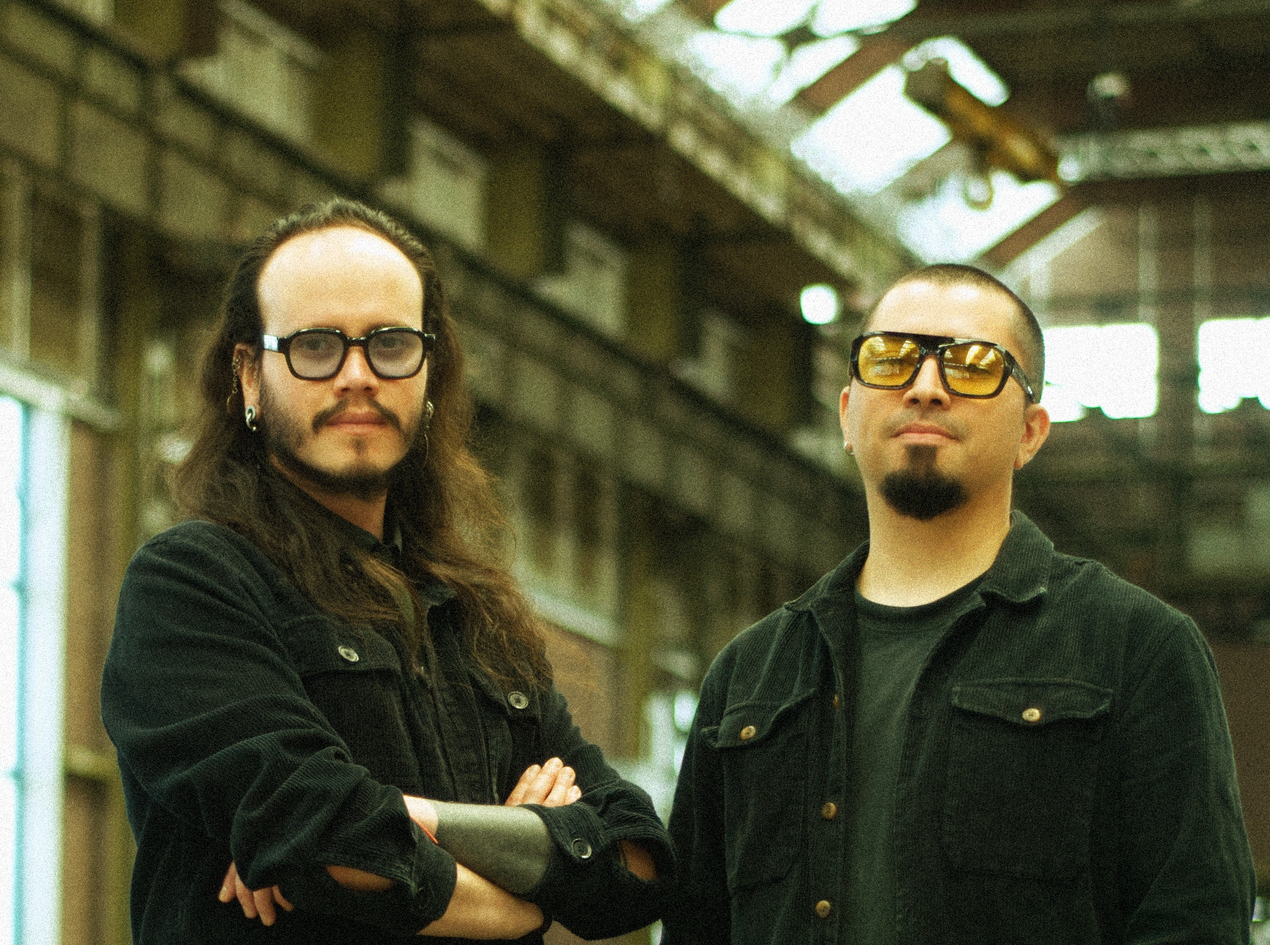
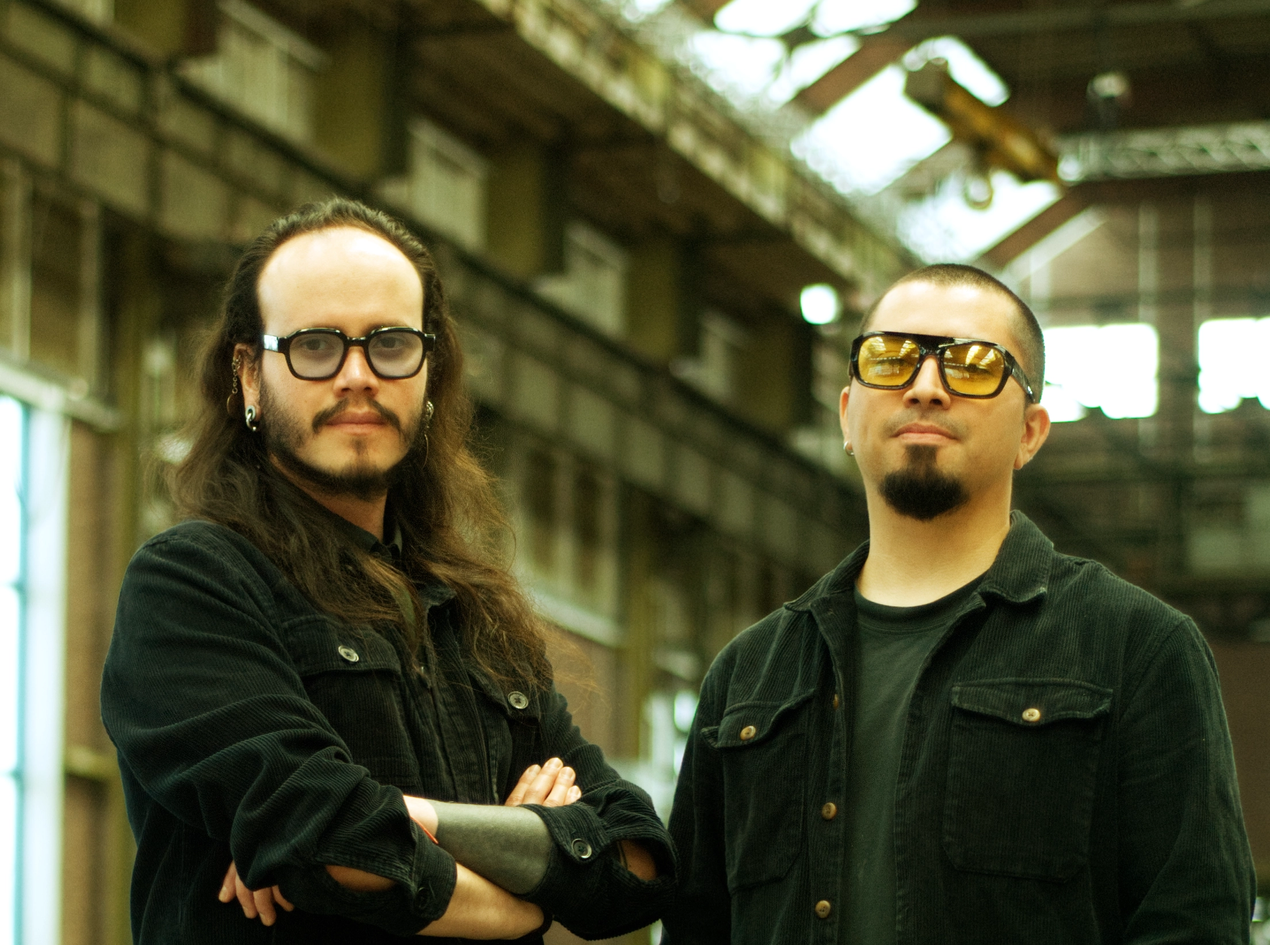
Preserve full biography photo width and add centered Contact portrait

diff --git a/style.css b/style.css
@@ -122,8 +122,8 @@ h1, h2, h3 { font-family: var(--display); font-weight: 500; }
 }
 
 .biography { background: #11170f; color: var(--white); height: 100svh; min-height: 0; overflow: clip; padding: clamp(18px, 4svh, 48px) 8vw clamp(18px, 4svh, 48px) 6vw; display: flex; align-items: flex-end; }
-/* A small zoom fills the frame; the upper crop keeps both faces above the copy. */
-.biography__portrait img { object-position: 50% calc(6svh - max(16vw, 24svh)); transform: scale(1.08); }
+/* Preserve the complete horizontal frame; only the vertical crop moves the faces. */
+.biography .biography__portrait img { position: absolute; left: 0; top: calc(5svh - 16vw); width: 100%; height: auto; max-width: none; object-fit: contain; object-position: center top; transform: none; mask-image: linear-gradient(to bottom, #000 85%, transparent); }
 .biography::after { content: ''; position: absolute; inset: 0; background: linear-gradient(to bottom, transparent 30%, #090e0844 45%, #090e08c7 68%, #090e08f5 100%); pointer-events: none; }
 .biography__copy { --bio-columns: 3; --bio-gap: 3.5vw; position: relative; z-index: 1; width: 100%; min-width: 0; container-type: inline-size; column-count: var(--bio-columns); column-gap: var(--bio-gap); column-fill: balance; font: 400 round(down, clamp(16px, 1.9svh, 20px), 1px)/1.42 'Anderson Grotesk', Arial, sans-serif; font-variation-settings: normal; text-align: justify; text-align-last: left; text-justify: inter-word; orphans: 1; widows: 1; text-shadow: 0 1px 10px #0009; }
 .biography__copy h2 { font-size: calc((100cqw - (var(--bio-columns) - 1) * var(--bio-gap)) / var(--bio-columns) * .187); line-height: .9; letter-spacing: 0; margin: 0 0 14px; break-inside: avoid; }
@@ -207,37 +207,42 @@ h1, h2, h3 { font-family: var(--display); font-weight: 500; }
 .events-empty a { font-size: 17px; display: inline-block; border-bottom: 1px solid; margin-top: 20px; }
 
 /* Email first; channels grouped by purpose, with Bandcamp last. */
-.contact { background: var(--red); padding: 100px 11vw 90px 8vw; display: grid; grid-template-columns: minmax(0, 1fr) minmax(0, 1.1fr); align-content: center; align-items: end; gap: 0 7vw; }
+.contact { --red: #d80108; isolation: isolate; background: var(--red); padding: 100px 11vw 90px 8vw; display: grid; grid-template-columns: minmax(0, .9fr) minmax(0, 1fr); align-content: center; align-items: end; gap: 0 14vw; font: 400 16px/1.45 'Anderson Grotesk', Arial, sans-serif; font-variation-settings: normal; }
+.contact__portrait { position: absolute; z-index: 0; left: 50%; top: 50%; width: min(70vw, calc(100svh * 3014 / 4516)); aspect-ratio: 3014 / 4516; transform: translate(-50%, -50%); pointer-events: none; }
+.contact__portrait img { width: 100%; height: 100%; object-fit: contain; mask-image: linear-gradient(to right, transparent, #000 5%, #000 95%, transparent), linear-gradient(to bottom, transparent, #000 6%, #000 94%, transparent); mask-composite: intersect; }
+.contact__lead, .contact__channels, .contact__back { position: relative; z-index: 1; }
+.contact .eyebrow { font-size: 11px; letter-spacing: .14em; }
 .contact__lead, .contact__channels { min-width: 0; }
 .contact__channels { container-type: inline-size; }
-.contact__lead .display { font-size: min(140px, 27cqw); margin: 0 0 clamp(40px, 7svh, 72px); }
-.contact__lead .eyebrow { font-size: 12px; opacity: .75; margin-bottom: 16px; }
+.contact__lead .display { font-size: min(118px, 24cqw); margin: 0 0 clamp(32px, 5svh, 54px); }
+.contact__lead .eyebrow { opacity: .85; margin-bottom: 12px; }
 /* Links fill with paper and turn red on hover, focus and tap; the arrow circle fills and turns to point forward. */
 .contact__email, .contact__row { --pad: 18px; position: relative; isolation: isolate; margin: 0 calc(-1 * var(--pad)); transition: color .3s; }
 .contact__email::before, .contact__row::before, .event::before { content: ''; position: absolute; inset: 0; z-index: -1; background: var(--paper); transform: scaleX(0); transform-origin: left; transition: transform .5s cubic-bezier(.65, 0, .35, 1); }
-.contact__email { --pad: 14px; display: inline-flex; align-items: center; gap: .45em; max-width: calc(100% + 2 * var(--pad)); padding: 6px var(--pad) 14px; font: 500 min(54px, 8cqw)/1.1 var(--display); letter-spacing: -.025em; }
+.contact__email { --pad: 14px; display: inline-flex; align-items: center; gap: .45em; max-width: calc(100% + 2 * var(--pad)); padding: 6px var(--pad) 14px; font: 500 min(44px, 7cqw)/1.1 var(--display); letter-spacing: -.025em; }
 .contact__email::after { content: ''; position: absolute; left: var(--pad); right: var(--pad); bottom: 0; height: 1px; background: #fff8; transition: opacity .3s; }
 .contact__name { transition: transform .5s cubic-bezier(.65, 0, .35, 1); }
 .contact__icon, .event__icon { display: grid; place-items: center; flex-shrink: 0; width: 38px; height: 38px; border: 1px solid #fff8; border-radius: 50%; transition: background-color .3s, border-color .3s, color .3s; }
 .contact__icon .arrow, .event__icon .arrow { width: 14px; height: 14px; transition: transform .5s cubic-bezier(.65, 0, .35, 1); }
+.contact__icon { width: 32px; height: 32px; }
 .contact__email .contact__icon { width: .8em; height: .8em; }
 .contact__email .contact__icon .arrow { width: .3em; height: .3em; }
 .contact__email:focus-visible, .contact__row:focus-visible { outline: 2px solid var(--white); outline-offset: 3px; }
-.contact__meta { display: flex; flex-wrap: wrap; align-items: baseline; gap: 8px 26px; margin-top: 18px; font-size: 14px; }
+.contact__meta { display: flex; flex-wrap: wrap; align-items: baseline; gap: 6px 20px; margin-top: 14px; font-size: 13px; }
 .contact__meta p { opacity: .8; }
 .contact__copy { position: relative; padding: 6px 0; opacity: .8; transition: opacity .2s; }
 .contact__copy::after { content: ''; position: absolute; left: 0; right: 0; bottom: 3px; height: 1px; background: currentColor; transform: scaleX(.35); transform-origin: left; transition: transform .25s; }
 .contact__copy:hover, .contact__copy:focus-visible { opacity: 1; }
 .contact__copy:hover::after, .contact__copy:focus-visible::after { transform: scaleX(1); }
-.contact__copy-status { font-size: 13px; opacity: .8; }
-.contact__group { display: grid; grid-template-columns: 136px minmax(0, 1fr); gap: 0 20px; align-items: first baseline; border-top: 1px solid #fff6; }
+.contact__copy-status { font-size: 12px; opacity: .8; }
+.contact__group { display: grid; grid-template-columns: 112px minmax(0, 1fr); gap: 0 16px; align-items: first baseline; border-top: 1px solid #fff6; }
 .contact__group:last-of-type { border-bottom: 1px solid #fff6; }
-.contact__group h3 { font-family: var(--body); font-weight: 400; font-size: 12px; opacity: .75; }
+.contact__group h3 { font-family: inherit; font-weight: 400; font-size: 11px; opacity: .85; }
 .contact__group ul { list-style: none; margin: 0; padding: 0; }
 .contact__group li + li { border-top: 1px solid #fff2; }
-.contact__row { display: grid; grid-template-columns: minmax(0, 1fr) auto auto; align-items: center; gap: 18px; padding: 14px var(--pad); }
-.contact__name { font: 500 clamp(26px, 2.4vw, 38px)/1.1 var(--display); letter-spacing: -.02em; }
-.contact__detail { font-size: 14px; white-space: nowrap; opacity: .8; transition: opacity .3s; }
+.contact__row { display: grid; grid-template-columns: minmax(0, 1fr) auto auto; align-items: center; gap: 12px; padding: 12px var(--pad); }
+.contact__name { font: 500 clamp(22px, 2vw, 32px)/1.1 var(--display); letter-spacing: -.02em; }
+.contact__detail { font-size: 12px; white-space: nowrap; opacity: .8; transition: opacity .3s; }
 .contact__email:is(:focus-visible, :active), .contact__row:is(:focus-visible, :active) { color: var(--red); }
 .contact__email:is(:focus-visible, :active)::before, .contact__row:is(:focus-visible, :active)::before { transform: none; }
 .contact__email:is(:focus-visible, :active)::after { opacity: 0; }
@@ -254,9 +259,9 @@ h1, h2, h3 { font-family: var(--display); font-weight: 500; }
   .contact__email:hover .contact__icon, .contact__row:hover .contact__icon { background: var(--red); border-color: var(--red); color: var(--white); }
   .contact__email:hover .arrow, .contact__row:hover .arrow { transform: rotate(45deg); }
 }
-.contact__back { grid-column: 2; justify-self: start; display: inline-flex; align-items: baseline; gap: 10px; font-size: 14px; margin-top: 36px; padding: 6px 0; opacity: .7; transition: opacity .2s; }
+.contact__back { grid-column: 2; justify-self: start; display: inline-flex; align-items: baseline; gap: 10px; font-size: 13px; margin-top: 28px; padding: 6px 0; opacity: .7; transition: opacity .2s; }
 .contact__back:hover, .contact__back:focus-visible { opacity: 1; }
-.contact__back span { font-size: 18px; }
+.contact__back span { font-size: 16px; }
 /* Narrow channel columns place each label above its links. */
 @container (max-width: 519px) {
   .contact__group { grid-template-columns: minmax(0, 1fr); padding-top: 18px; }
@@ -298,10 +303,6 @@ dialog::backdrop { background: #0b0c0bf0; }
   .live { grid-template-columns: 1fr; grid-template-rows: auto minmax(0, 1fr); gap: 28px; }
   .live__intro { margin-top: 0; }
   .live::after { background: linear-gradient(to bottom, #05050566, #050505d9 34%, #050505eb); }
-  .contact { grid-template-columns: 1fr; gap: 70px; }
-  .contact__back { grid-column: auto; margin-top: -34px; }
-  .contact__lead .display { margin-bottom: 40px; }
-  .contact__email { font-size: min(54px, 7.5cqw); }
 }
 /* Landscape tablets and small laptops: compact type keeps each aleas screen within the window. */
 @media (min-width: 721px) and (max-width: 1050px) and (max-height: 860px) {
@@ -312,6 +313,21 @@ dialog::backdrop { background: #0b0c0bf0; }
   .release__actions { gap: 8px; }
   .release__facts dd { font-size: 17px; }
   .release__about p { font-size: 15px; line-height: 1.5; }
+}
+@media (max-width: 800px) {
+  .contact { grid-template-columns: 1fr; gap: 36px; padding: 72px 52px 52px 24px; }
+  .contact__portrait { width: min(100%, 620px); }
+  .contact__channels { max-width: 560px; }
+  .contact__lead .display { font-size: min(92px, 22cqw); margin: 0 0 28px; }
+  .contact__email { font-size: min(36px, 7.2cqw); padding-bottom: 12px; }
+  .contact__meta { font-size: 12px; gap: 4px 18px; }
+  .contact__email, .contact__row { --pad: 12px; }
+  .contact__row { grid-template-columns: minmax(0, 1fr) auto; grid-template-areas: 'name icon' 'detail icon'; gap: 3px 14px; padding: 10px var(--pad) 12px; }
+  .contact__name { grid-area: name; font-size: 23px; }
+  .contact__detail { grid-area: detail; }
+  .contact__icon { grid-area: icon; width: 30px; height: 30px; }
+  .contact__email .contact__icon { width: .8em; height: .8em; }
+  .contact__back { grid-column: auto; margin-top: -16px; }
 }
 @media (max-width: 720px) {
   html { scroll-snap-type: none; }
@@ -346,7 +362,6 @@ dialog::backdrop { background: #0b0c0bf0; }
   .text-link { font-size: 17px; gap: 20px; }
   .biography { min-height: 0; padding: 20px 46px 20px 24px; }
   .biography .biography__portrait { height: min(46svh, 94vw); }
-  .biography__portrait img { object-position: 50% calc(18px - min(11svh, 22.5vw)); transform: scale(1.06); }
   .biography::after { background: linear-gradient(to bottom, transparent 8svh, #11170f44 20svh, #11170ff5 min(36svh, 76vw), #11170f min(40svh, 80vw)); }
   .biography__copy h2 { margin: 0 0 12px; }
   .biography__copy { font-size: clamp(15px, 1.9svh, 17px); line-height: 1.38; }
@@ -372,19 +387,6 @@ dialog::backdrop { background: #0b0c0bf0; }
   .event time { font-size: 20px; }
   .event p { font-size: 14px; }
   .event__info > span { font-size: 11px; }
-  .contact { gap: 46px; padding: 90px 60px 65px 24px; }
-  .contact__lead .display { font-size: min(90px, 23cqw); margin: 25px 0 30px; }
-  .contact__email { font-size: min(40px, 8cqw); padding-bottom: 12px; }
-  .contact__meta { font-size: 13px; gap: 4px 22px; }
-  .contact__email, .contact__row { --pad: 12px; }
-  .contact__row { grid-template-columns: minmax(0, 1fr) auto; grid-template-areas: 'name icon' 'detail icon'; gap: 4px 16px; padding: 10px var(--pad) 14px; }
-  .contact__name { grid-area: name; }
-  .contact__detail { grid-area: detail; }
-  .contact__icon { grid-area: icon; width: 36px; height: 36px; }
-  .contact__email .contact__icon { width: 30px; height: 30px; }
-  .contact__email .contact__icon .arrow { width: 12px; height: 12px; }
-  .contact__name { font-size: 26px; }
-  .contact__back { margin-top: -22px; }
   .eyebrow { font-size: 11px; }
   dialog { max-width: calc(100vw - 24px); max-height: 94svh; }
   .lightbox { padding: 65px 15px 20px; width: calc(100vw - 24px); }
@@ -405,9 +407,9 @@ dialog::backdrop { background: #0b0c0bf0; }
   .video-card__title { font-size: 20px; margin-top: 12px; }
   .release__facts { margin-top: 30px; }
   .release__facts > div { padding: 11px 0 12px; }
-  .contact__lead .display { font-size: 80px; margin-bottom: 32px; }
+  .contact__lead .display { font-size: min(74px, 23cqw); margin-bottom: 24px; }
   .contact__row { padding: 10px var(--pad); }
-  .contact__name { font-size: 28px; }
+  .contact__name { font-size: 24px; }
   .live__intro { margin-top: -16px; }
   .live__intro h2 { font-size: 140px; }
 }
@@ -425,7 +427,6 @@ dialog::backdrop { background: #0b0c0bf0; }
 
 @media (min-width: 721px) and (max-aspect-ratio: 1 / 1) {
   .biography .biography__portrait { height: 65svh; }
-  .biography__portrait img { object-position: 50% calc(4svh - max(18vw, 15.6svh)); }
   .biography::after { background: linear-gradient(to bottom, transparent 20svh, #11170f44 35svh, #11170ff5 53svh, #11170f 57svh); }
 }
 
@@ -439,7 +440,6 @@ dialog::backdrop { background: #0b0c0bf0; }
 @media (min-width: 541px) and (max-height: 500px) {
   .biography { padding: 14px 44px 14px 24px; }
   .biography .biography__portrait { height: 100%; }
-  .biography__portrait img { object-position: 50% calc(6svh - max(16vw, 24svh)); transform: scale(1.04); }
   .biography::after { background: linear-gradient(to bottom, transparent 24%, #090e0877 45%, #090e08e6 75%, #090e08f5 100%); }
   .biography__copy h2 { font-size: clamp(30px, 5vw, 42px); margin-bottom: 8px; }
   .biography__copy { --bio-columns: 1; display: flex; flex-direction: column; max-height: 44%; }

diff --git a/index.html b/index.html
@@ -14,7 +14,7 @@
   <link rel="icon" href="assets/favicon.svg?v=20261023-dv" type="image/svg+xml">
   <link rel="preload" href="assets/fonts/apfel-grotezk-mittel.woff2" as="font" type="font/woff2" crossorigin>
   <link rel="preload" href="assets/fonts/aujournuit-variable.ttf" as="font" type="font/ttf" crossorigin>
-  <link rel="stylesheet" href="style.css?v=20261101-biography-approved">
+  <link rel="stylesheet" href="style.css?v=20261101-contact-portrait">
   <script src="app.js?v=20261101-biography-approved" defer></script>
 </head>
 <body>
@@ -88,8 +88,8 @@
 
     <section class="scene biography" id="bio" aria-labelledby="bio-title">
       <picture class="biography__portrait scene-photo">
-        <source media="(max-width: 720px)" srcset="assets/images/biography-small.webp?v=20261101-dsc0278">
-        <img src="assets/images/biography.webp?v=20261101-dsc0278" alt="Jorge Care and César Vidal standing inside an industrial building." width="2208" height="1643" loading="lazy">
+        <source media="(max-width: 720px)" srcset="assets/images/biography-small.webp?v=20261101-biography-full-width">
+        <img src="assets/images/biography.webp?v=20261101-biography-full-width" alt="Jorge Care and César Vidal standing inside an industrial building." width="2208" height="1643" loading="lazy">
       </picture>
       <article class="biography__copy">
         <h2 class="display" id="bio-title" aria-label="BIOGRAPHY"><span class="biography__title" aria-hidden="true"><span>B</span><span>I</span><span>O</span><span>G</span><span>R</span><span>A</span><span>P</span><span>H</span><span>Y</span></span></h2>
@@ -149,6 +149,10 @@
     </section>
 
     <section class="scene contact" id="contact" aria-labelledby="contact-title">
+      <picture class="contact__portrait">
+        <source media="(max-width: 720px)" srcset="assets/images/contact-small.webp?v=20261101-red-portrait">
+        <img src="assets/images/contact.webp?v=20261101-red-portrait" alt="Jorge Care and César Vidal in motion against a red background." width="3014" height="4516" loading="lazy">
+      </picture>
       <div class="contact__lead">
         <h2 class="display" id="contact-title">Contact</h2>
         <p class="eyebrow">Bookings & enquiries</p>

diff --git a/README.md b/README.md
@@ -8,18 +8,18 @@ A single page in six sections: home, aleas / discography, biography, gallery, li
 python3 -m http.server 8000
 ```
 
-Open `http://localhost:8000/`. Titles use **Apfel Grotezk Mittel (weight 500)** by Luigi Gorlero; body text uses **Aujournuit Variable** by Teo Gaudet, initially at regular width 100, except for the biography's **Anderson Grotesk Regular (400)** by Stephen French. Apfel and Aujournuit are supplied by the owner from [Collletttivo](https://www.collletttivo.it/typefaces/) and self-hosted with their SIL Open Font Licenses in `assets/fonts/`. Anderson uses its real Oblique for emphasis; its source and the designer's personal/commercial use permission are recorded in [the font notes](assets/fonts/candidates/README.md). The other comparison fonts remain inactive.
+Open `http://localhost:8000/`. Titles use **Apfel Grotezk Mittel (weight 500)** by Luigi Gorlero; body text uses **Aujournuit Variable** by Teo Gaudet, initially at regular width 100, except for biography body copy and Contact secondary text in **Anderson Grotesk Regular (400)** by Stephen French. Apfel and Aujournuit are supplied by the owner from [Collletttivo](https://www.collletttivo.it/typefaces/) and self-hosted with their SIL Open Font Licenses in `assets/fonts/`. Anderson uses its real Oblique for emphasis; its source and the designer's personal/commercial use permission are recorded in [the font notes](assets/fonts/candidates/README.md). The other comparison fonts remain inactive.
 
 Apfel is served as WOFF2, with its original OTF also included. Aujournuit is served from the original variable TTF: the supplied `Aujournuit-VariableVF.woff2` actually renders at a fixed width, whereas the TTF preserves the `wdth` axis (50–200). Keep using the TTF unless a replacement is verified to change width in the browser. The earlier Rebak personal-use demo remains ignored by Git and is never requested by the public site.
 
 ## Editing the site
 
 - **Sections:** the six `.section-nav` links and six `main > section` elements in `index.html` correspond one to one. The hero menu links to the same sections. The right-side marks track normal page scrolling. Inactive marks are rounded 18 × 3 px lines; the current section becomes an 18 × 9 px rounded rectangle. Mobile uses 15 × 3 px / 15 × 8 px. Both use 24 px row spacing and translucent marks, with stronger opacity on hover / keyboard focus; link targets remain wider than the marks.
-- **Photos:** put optimized WebP files in `assets/images/`, then update `<img>` paths, dimensions, alt text, and entries in the `#gallery-data` JSON block. Biography uses the higher-quality landscape `biography.webp` and stays exactly one screen tall (100svh); do not restore fixed pixel or viewport-width-based minimum heights. A small CSS zoom frames both faces, with white copy over a lower gradient. The photograph already has its own texture; no grain or noise is added. The full-size WebP is served unchanged. BIOGRAPHY is part of the first column, with its letters distributed across that column's width and a small optical shift aligning its B and cap height with the body text. The body uses Anderson Regular with slightly tighter leading, justified paragraphs and left-aligned final lines. Desktop normally has three columns and tablet two. The original five paragraphs remain intact in the HTML. `app.js` typesets their words into equal-height columns, including the heading in column one, while preserving paragraph boundaries and fixed 8px paragraph gaps. Sentences may continue in the next column. It measures candidate layouts in the browser and makes small font-size and heading-spacing adjustments; it never distributes spare height between paragraphs. The native column flow remains a readable fallback, and single-column reading areas keep the original paragraphs with small fixed spacing. On narrow phones and very short windows, the text alone scrolls inside a labelled, keyboard-accessible reading area; the photograph, title and section height remain fixed. The original earlier portrait stays available in the photo gallery. Keep visible copy limited to section titles, functional labels and the biography based on the owner’s supplied text; do not add slogans.
+- **Photos:** put optimized WebP files in `assets/images/`, then update `<img>` paths, dimensions, alt text, and entries in the `#gallery-data` JSON block. Biography uses the higher-quality landscape `biography.webp` and stays exactly one screen tall (100svh); do not restore fixed pixel or viewport-width-based minimum heights. The image fits the full viewport width with automatic height and no zoom, so neither lateral edge is lost; its vertical position keeps both faces visible. A bottom fade blends it into the dark background, with white copy over a lower gradient. The photograph already has its own texture; no grain or noise is added. The full-size WebP is served unchanged. BIOGRAPHY is part of the first column, with its letters distributed across that column's width and a small optical shift aligning its B and cap height with the body text. The body uses Anderson Regular with slightly tighter leading, justified paragraphs and left-aligned final lines. Desktop normally has three columns and tablet two. The original five paragraphs remain intact in the HTML. `app.js` typesets their words into equal-height columns, including the heading in column one, while preserving paragraph boundaries and fixed 8px paragraph gaps. Sentences may continue in the next column. It measures candidate layouts in the browser and makes small font-size and heading-spacing adjustments; it never distributes spare height between paragraphs. The native column flow remains a readable fallback, and single-column reading areas keep the original paragraphs with small fixed spacing. On narrow phones and very short windows, the text alone scrolls inside a labelled, keyboard-accessible reading area; the photograph, title and section height remain fixed. The original earlier portrait stays available in the photo gallery. Keep visible copy limited to section titles, functional labels and the biography based on the owner’s supplied text; do not add slogans.
 - **Films:** the Gallery cover has a single photo background; Photos opens the collection in a lightbox and Videos opens `#video-dialog`. Add videos to that dialog. Native controls, posters and `preload="none"` keep playback intentional and initial loading light.
 - **Discography:** aleas spans exactly two screens on tablets and computers, each with its own scroll-snap point and sizes that follow the window height (checked at 1024 × 768, 1280 × 680 / 800, 1440 × 900, 1920 × 1080 and 900 × 1100). As the second screen rises, `app.js` sets `--mix` from 0 to 1, moving the background from #10120f to the deep teal #0b2322, with a lower glow towards #1d4643 that meets the top of the Biography photograph. Phones keep one continuous flow. The first screen holds the title, a one-line description, the Listen (Bandcamp player dialog), Videos (YouTube playlist) and Bandcamp buttons, the credits list and the cover. The second screen holds About (the owner's text in three columns), Video documentation (three cards for *alea II*, *alea III* and *alea V* that play in `#youtube-dialog`, loading the privacy-enhanced YouTube player only on request and removing it on close) and, beside them, a Discography card for the debut EP. The music dialog loads the existing Bandcamp album IDs only when requested and includes a direct Bandcamp fallback link. Buttons, cards and the EP row share Contact's paper fill and red circle on hover / focus.
 - **Concerts:** each year is a `.events-year` group (an `<h3>` year plus an optional note) inside `.events-list`. Add an `.event` article to the matching group, newest first, with `data-date="YYYY-MM-DD"` and a matching `<time datetime>`; create a new group for a new year. The whole row links to the event page through `.event__link`; `.event__kind` names where it goes (Venue, Event page, Instagram) and an optional `.event__recording` pill links a video. Rows share Contact's hover fill and arrow circle. JavaScript separates upcoming and archived dates against Europe/Amsterdam time and orders them with CSS `order` (upcoming forward, archive backward), hiding empty years. A known month or year can use `YYYY-MM` or `YYYY`; do not invent missing date components. Only publish confirmed events and actual ticket / venue links. On desktop and tablet the Live section is exactly one screen tall and the list scrolls inside it, fading at the edges while more dates remain; on phones the list flows with the page under a photo band cropped on the piano. The Live title sits in the dark area above the piano.
-- **Contacts:** the duo's email (`desvisages1@gmail.com`) leads the section, with César Vidal named as the person handling bookings; a Copy address button appears when the browser supports copying. Links are grouped in this order: Follow (Instagram `@desvisages`), Websites (Jorge Care, César Vidal) and Listen & watch (YouTube `@desvisages`, then Bandcamp last). All handles and addresses were supplied by the owner; do not guess new ones. Group labels sit beside their links on wide layouts and above them when the column is narrow. Every contact link has an outlined arrow circle; on hover, keyboard focus or tap the link fills with paper colour, its text turns red and the arrow turns to point forward.
+- **Contacts:** the owner's red portrait is centered behind the information, with a local `#d80108` background matching the most common outer-edge RGB value (216, 1, 8) and subtle edge blending. The hero keeps its own `#b9070a`. Slightly smaller typography and wider space between the desktop information blocks leave more of the portrait visible. Titles, email and link names retain Apfel Mittel; secondary labels, handles, URLs, metadata, copying controls and the return link use Anderson Regular. The duo's email (`desvisages1@gmail.com`) leads the section, with César Vidal named as the person handling bookings; a Copy address button appears when the browser supports copying. Links are grouped in this order: Follow (Instagram `@desvisages`), Websites (Jorge Care, César Vidal) and Listen & watch (YouTube `@desvisages`, then Bandcamp last). All handles and addresses were supplied by the owner; do not guess new ones. Group labels sit beside their links on wide layouts and above them when the column is narrow. Every contact link has an outlined arrow circle; on hover, keyboard focus or tap the link fills with paper colour, its text turns red and the arrow turns to point forward.
 - **Design:** colour and typography variables are at the start of `style.css`. The favicon `assets/favicon.svg` is the duo's DV monogram, white on #b9070a; bump its `?v=` query in `index.html` when it changes, since browsers cache icons. Mobile flows remain scrollable, and reduced-motion preferences disable smooth scrolling / animations.
 
 ## Source material and limits of the first version
@@ -28,7 +28,7 @@ The aleas texts, credits, recording date and venue, piece titles and video IDs c
 
 Release details, album IDs, contacts, the debut EP artwork and the audiovisual excerpt were recovered from `cesarvidalmusic/cesarvidalmusic`, specifically `des-visages.html`, `aleas.html`, `des-visages-ep.html`, `contact.html`, `img/` and `videos/`. Nothing in that repository was edited.
 
-The latest biography upload, `DSC_0278.1.webp.zip`, supplies the landscape `biography.webp`: its 2208 × 1643 px WebP is copied unchanged (2,511,222 bytes), with a 1400 × 1042 px mobile version encoded at quality 98 (766,784 bytes). The supplied photograph's texture is preserved; the previous SVG grain overlay was removed. Its crop keeps both faces above the text. The expanded biography was approved by the owner on 1 November 2026: the debut EP was recorded at HEM in Geneva, features three original pieces and was recorded, mixed and mastered by Samuel Albert; it was released in 2025 and also presented at Geneva's Fête de la Musique. The final paragraph identifies aleas as recorded at Dijktheater in Amsterdam in 2026 and ends with that year's European tour. Earlier supplied archives provide `bio.webp` for the gallery portrait, `sección-fotos.jpg` for the single Gallery background, `eventos.png` for concerts, and `cover-aleas.png` for the album artwork. Original images were converted to sRGB when needed. The latest hero upload, `1 (todos bordes color sólido).webp`, replaces the earlier transparent cutout. Its 2500 × 2831 px WebP is copied unchanged, with a 1100 × 1246 px mobile version encoded at quality 94. The page background is `#b9070a`, the most common RGB value along its outer edges; subtle CSS masks blend small compression differences at the photograph's top and sides. The larger portrait is framed below the uppercase title to keep faces clear. Source archives remain outside Git; only the web assets are committed.
+The latest biography upload, `DSC_0278.1.webp.zip`, supplies the landscape `biography.webp`: its 2208 × 1643 px WebP is copied unchanged from the latest upload (1,260,856 bytes), with a 1400 × 1042 px mobile version encoded at quality 98 (478,836 bytes). The supplied photograph's texture is preserved; the previous SVG grain overlay was removed. Its full width remains visible; only the vertical framing is adjusted to keep both faces above the text. The expanded biography was approved by the owner on 1 November 2026: the debut EP was recorded at HEM in Geneva, features three original pieces and was recorded, mixed and mastered by Samuel Albert; it was released in 2025 and also presented at Geneva's Fête de la Musique. The final paragraph identifies aleas as recorded at Dijktheater in Amsterdam in 2026 and ends with that year's European tour. Earlier supplied archives provide `bio.webp` for the gallery portrait, `sección-fotos.jpg` for the single Gallery background, `eventos.png` for concerts, and `cover-aleas.png` for the album artwork. Original images were converted to sRGB when needed. The latest hero upload, `1 (todos bordes color sólido).webp`, replaces the earlier transparent cutout. Its 2500 × 2831 px WebP is copied unchanged, with a 1100 × 1246 px mobile version encoded at quality 94. The page background is `#b9070a`, the most common RGB value along its outer edges; subtle CSS masks blend small compression differences at the photograph's top and sides. The larger portrait is framed below the uppercase title to keep faces clear. The Contact portrait comes from the owner's `IMG_4852.1` light-version upload: the original 3014 × 4516 px WebP is copied unchanged as `contact.webp` (2,434,388 bytes), with a 1200 × 1798 px mobile WebP at quality 96 (130,282 bytes). Source archives remain outside Git; only the web assets are committed.
 
 The red portrait was originally credited to Beatriz Álvarez on the personal site. Per the owner's explicit correction, no photographer credit appears in the site or gallery dialogs; source attribution stays here. The bio is edited from the complete text the owner supplied, retaining the instrumental setup, visual work, influences and release history. The aleas video is a 19.8-second excerpt, encoded for the web at 1280 px. It plays in a dialog without automatic audio.
 

diff --git a/AGENTS.md b/AGENTS.md
@@ -4,12 +4,13 @@
 - Use native HTML, CSS and JavaScript. There is no dependency installation or build step.
 - Preserve the single-page structure, correspondence between sections / navigation marks, hero-only menu, red identity and absence of site headers / footers unless the user requests a change.
 - Keep section headings direct: BIOGRAPHY, Gallery, Live, Contact, and the release title. Do not add slogans, promotional taglines or decorative prose. Base biography edits on the user's supplied text, preserving concrete details.
-- Biography uses the owner's `DSC_0278.1.webp` as `biography.webp` unchanged (2208 × 1643), plus a high-quality mobile version. Do not add grain or noise overlays: the photograph already includes its own texture. The section stays exactly 100svh, without fixed pixel minimums or a viewport-width-based minimum height. Keep both faces visible, with justified white lower columns and a gradient for contrast. BIOGRAPHY stays in Apfel Mittel, fills the first column's width and belongs inside that column; its B and upper edge are optically aligned with the body. Anderson Grotesk Regular is used only for biography body copy. Preserve the five original paragraphs with small fixed 8px gaps. The approved layout has equal column heights, including the title in column one; sentences may continue in the next column. `app.js` finds word breaks and checks real browser heights, with small typography adjustments and heading spacing. Never stretch paragraph gaps or remove paragraph boundaries to force alignment. The biography includes HEM, Samuel Albert's recording/mixing/mastering credit, the EP's three pieces and Fête de la Musique presentation, and aleas recorded at Dijktheater in Amsterdam in 2026, ending with the tour. Use three columns on desktop and two on tablet; narrow phones and very short windows use a keyboard-accessible scrolling reading area while the photo and title remain fixed. Preserve the earlier portrait in the gallery and omit the removed named musical influences.
+- Biography uses the owner's latest `DSC_0278.1.webp` as `biography.webp` unchanged (2208 × 1643), plus a high-quality mobile version. Preserve the complete image width at every viewport: `width: 100%`, automatic height and no transform/zoom; crop/reposition vertically only, keeping both faces visible. A lower vertical fade blends the image into the dark text area. Do not add grain or noise overlays: the photograph already includes its own texture. The section stays exactly 100svh, without fixed pixel minimums or a viewport-width-based minimum height. Keep both faces visible, with justified white lower columns and a gradient for contrast. BIOGRAPHY stays in Apfel Mittel, fills the first column's width and belongs inside that column; its B and upper edge are optically aligned with the body. Anderson Grotesk Regular is used for biography body copy and Contact secondary text. Preserve the five original paragraphs with small fixed 8px gaps. The approved layout has equal column heights, including the title in column one; sentences may continue in the next column. `app.js` finds word breaks and checks real browser heights, with small typography adjustments and heading spacing. Never stretch paragraph gaps or remove paragraph boundaries to force alignment. The biography includes HEM, Samuel Albert's recording/mixing/mastering credit, the EP's three pieces and Fête de la Musique presentation, and aleas recorded at Dijktheater in Amsterdam in 2026, ending with the tour. Use three columns on desktop and two on tablet; narrow phones and very short windows use a keyboard-accessible scrolling reading area while the photo and title remain fixed. Preserve the earlier portrait in the gallery and omit the removed named musical influences.
 - The navigation rail belongs on the right. Use small translucent rounded lines and a rounded active rectangle of the same width (18 × 3 / 18 × 9 px desktop, 15 × 3 / 15 × 8 px mobile), with 24 px row spacing and usable click targets. Do not restore active squares.
 - Gallery has one full-screen background photo with Photos / Videos controls opening dialogs. Do not reintroduce a thumbnail grid or visible photographer credits; the owner explicitly requested their removal.
+- Contact uses the owner's red `IMG_4852.1` portrait centered behind the information, with a local #d80108 background sampled from the photograph's edge. Preserve the original main WebP and the smaller mobile asset; subtle edge blending avoids a rectangular border. Keep all existing contact details, link order and hover/focus interactions. Typography is slightly smaller with more room at the center: headings, email and link names retain Apfel Mittel; secondary labels, handles, URLs, booking metadata, copy status and return link use Anderson Grotesk Regular. Do not change the hero's separate red background.
 - Use task branches so Codex and Claude Code can collaborate. Push reviewable changes and describe the relevant checks. Integrate / deploy within the user's current authorization; do not introduce redundant permission requests.
 - Preserve `CNAME` and existing user changes. Do not force-push or alter DNS as a routine editing step.
-- Do not commit the ignored `assets/fonts/rebak-demo.ttf`. It is the supplied personal-use demo for local typography comparison. Titles use the supplied OFL Apfel Grotezk Mittel (500); body text uses Aujournuit Variable, initially at regular width 100, except for biography's Anderson Grotesk Regular (400, with its real Oblique for emphasis). Serve Aujournuit from the included TTF: the supplied WOFF2 labelled Variable is actually fixed-width. Preserve licenses and author credits in documentation, including Anderson's designer permission/source in `assets/fonts/candidates/README.md`. Other candidate fonts remain inactive. The hero title is uppercase and large; keep it clear of the faces.
+- Do not commit the ignored `assets/fonts/rebak-demo.ttf`. It is the supplied personal-use demo for local typography comparison. Titles use the supplied OFL Apfel Grotezk Mittel (500); body text uses Aujournuit Variable, initially at regular width 100, except for biography and Contact secondary text in Anderson Grotesk Regular (400, with its real Oblique for emphasis). Serve Aujournuit from the included TTF: the supplied WOFF2 labelled Variable is actually fixed-width. Preserve licenses and author credits in documentation, including Anderson's designer permission/source in `assets/fonts/candidates/README.md`. Other candidate fonts remain inactive. The hero title is uppercase and large; keep it clear of the faces.
 - The hero uses the owner's 2500 × 2831 WebP unchanged, plus a smaller mobile version. The red background is #b9070a, sampled from the outer edges. Preserve its match and the subtle edge blending; avoid a visible rectangular photo border.
 - Use the user's own photographs, artwork and recordings. Resize / convert carefully, preserve colour profiles / transparency and alt text, and retain source attribution in documentation rather than adding visible credits the user removed.
 - Ground biographies, releases, contacts and concert dates in supplied / verified sources. Upcoming dates remain empty until confirmed. Do not invent a group email or social handles.

diff --git a/assets/fonts/candidates/README.md b/assets/fonts/candidates/README.md
@@ -1,6 +1,6 @@
 # Biography fonts
 
-The owner selected **Anderson Grotesk Regular** for the biography body after the screenshot comparison. Its Regular and Oblique cuts are now self-hosted and active only in Biography. Titles remain Apfel Grotezk Mittel, and other sections keep Aujournuit. Anderson Bold, Miedinger and Swansea remain inactive comparison assets.
+The owner selected **Anderson Grotesk Regular** for the biography body after the screenshot comparison. Its Regular and Oblique cuts are now self-hosted and active in Biography and Contact secondary text. Titles, email and primary contact link names retain Apfel Grotezk Mittel; other sections keep Aujournuit. Anderson Bold, Miedinger and Swansea remain inactive comparison assets.
 
 The comparison renders Miedinger Book, Swansea Regular and Anderson Grotesk Regular at the same viewport, point size, line height and paragraph justification, changing only the biography body font. The Apfel Grotezk Mittel heading and photograph stay unchanged. These first comparisons use the regular/book cuts only. All three regular cuts cover every character in the current biography.
 
